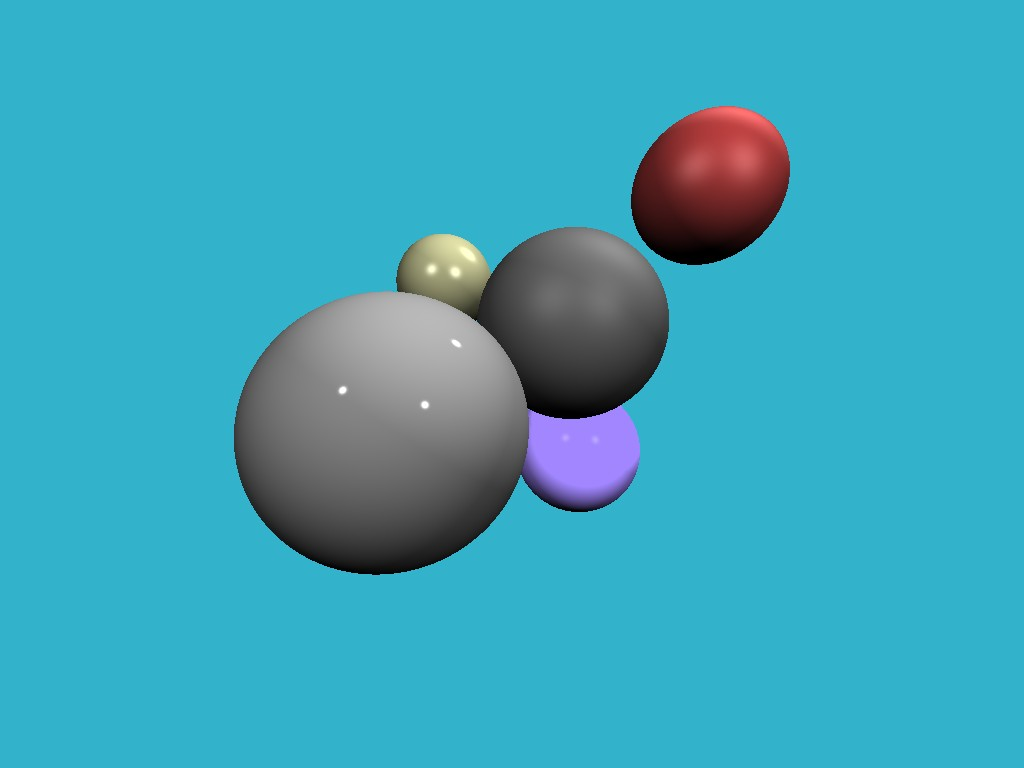
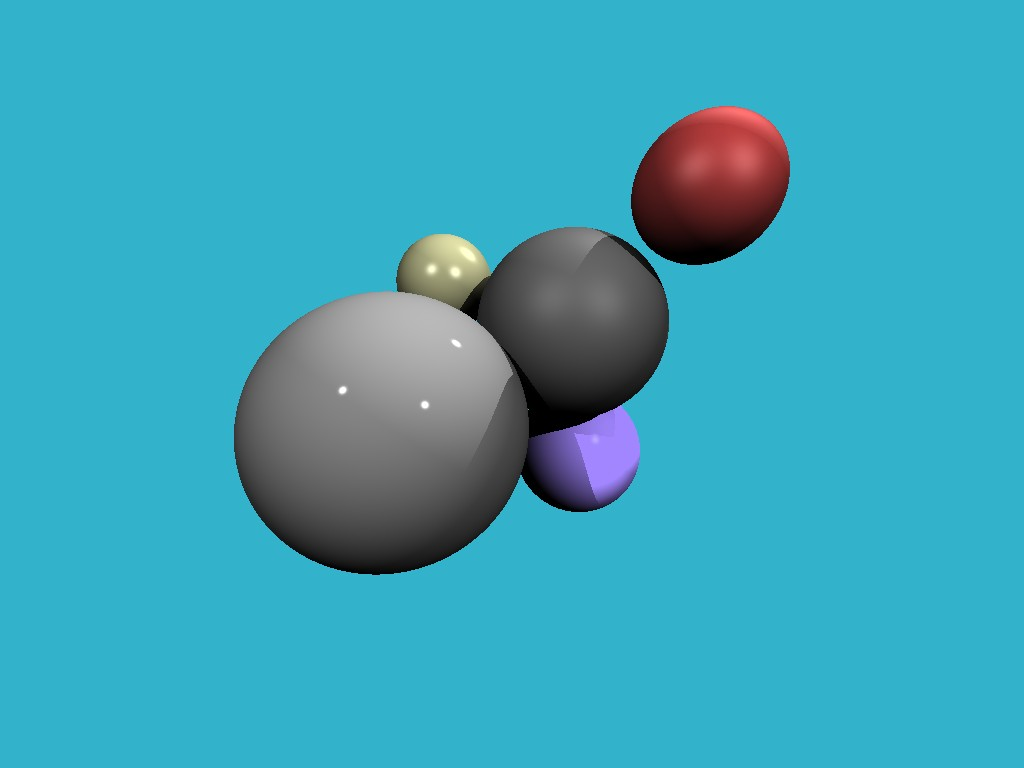
shadows

Changed region(s): [[0.4688, 0.4688, 0.5938, 0.6562], [0.5625, 0.3125, 0.6562, 0.4062], [0.4375, 0.375, 0.4688, 0.4062]]

diff --git a/src/Program.cs b/src/Program.cs
@@ -57,6 +57,24 @@ namespace raytracer
             {
                 //Diffuse Component
                 Vec3f light_dir = (lights[i].position - point).Normalize();
+
+                float light_dist = (lights[i].position - point).Norm();
+                Vec3f shadow_origin = (light_dir * N < 0) 
+                    ? point - N * 1e-3f 
+                    : point + N * 1e-3f;
+
+                Vec3f shadow_hit = new Vec3f();
+                Vec3f shadow_N = new Vec3f();
+                Material tempMaterial = new Material();
+
+                if(SceneIntersect(shadow_origin, light_dir, spheres, ref shadow_hit, ref shadow_N, ref tempMaterial))
+                {
+                    float dist_to_blocker = (shadow_hit - shadow_origin).Norm();
+                    if(dist_to_blocker < light_dist)
+                    {
+                        continue;
+                    }
+                }
                 diffuse_light_intensity += lights[i].intensity * Math.Max(0f, light_dir * N);
 
                 //Specular Component

diff --git a/README.md b/README.md
@@ -16,7 +16,8 @@ This project is a learning exercise to understand raytracing fundamentals by con
 - single sphere rendered.
 - more sphere added with different materials
 - lighting and shadow to the spheres
-- added specular light reflections  
+- added specular light reflections 
+- added shadows on the spheres
 
 ## How to Run
 
